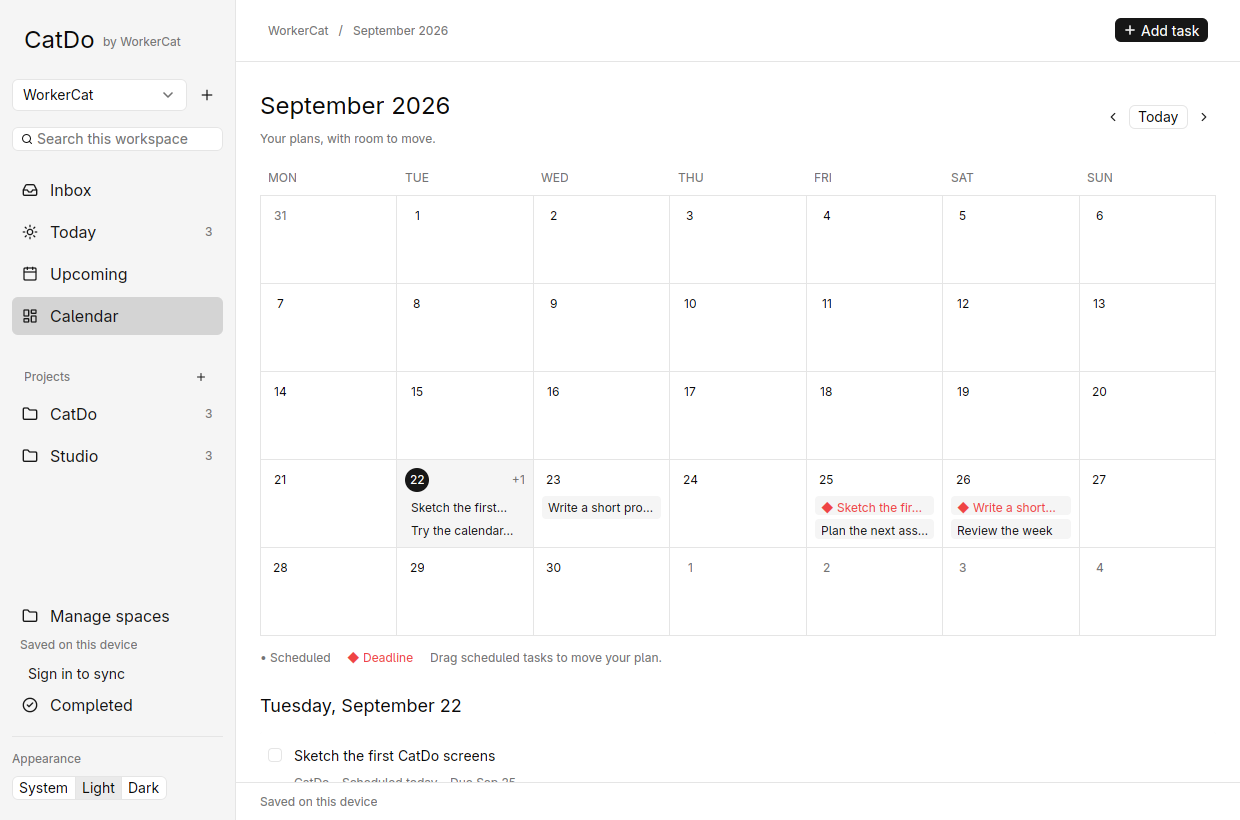
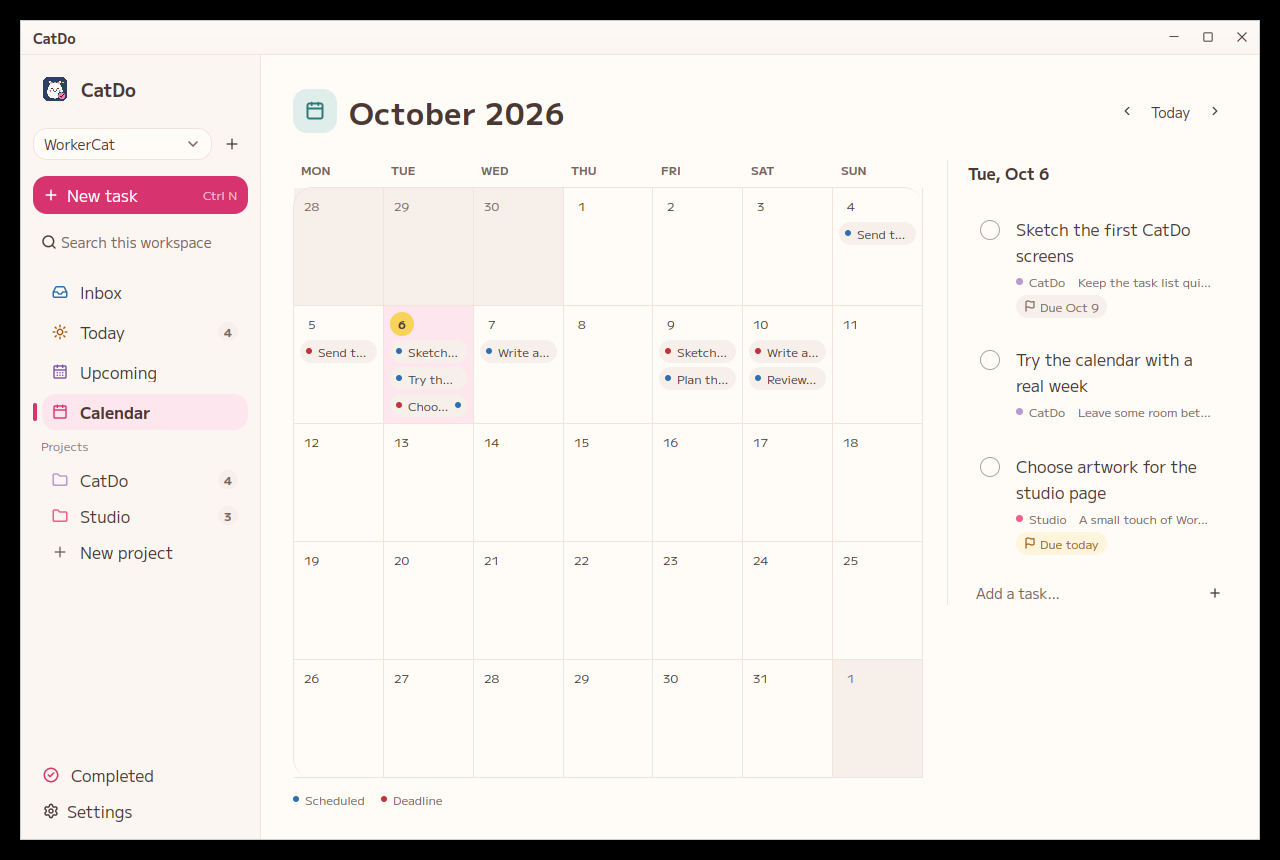
Document the Kirakira design and refresh the screenshots
docs/ui-design.md now describes Kirakira UI as CatDo's design system: where
each client gets it, the theme tokens, CatDo's meaning colours and project
slots, type, shape, the icon and the motion rules. The development and
implementation notes, the README stack table and a new design badge point to
it, and the README screenshots show the redesigned desktop.

diff --git a/docs/ui-design.md b/docs/ui-design.md
@@ -1,104 +1,160 @@
 # CatDo UI
 
-Desktop, web, and Android share a warm neutral foundation. Actions, focus, and
-selection use ink (near-black in light mode, near-white in dark mode) rather
-than a hue. Colour is reserved for meaning: each view has its own hue for its
-icon (amber Today, blue Inbox, violet Upcoming, teal Calendar, green Completed),
-every project gets a stable colour dot from a hash of its id (eight slots shared
-by all clients), deadlines are red when late and amber when due today, scheduled
-dates read blue, repeats read teal, and a finished check fills green. Metadata
-always pairs its colour with an icon (flag, calendar, repeat, subtasks) so it
-still reads without colour. Use platform components with these tokens; keep
-native keyboard, focus, touch, and accessibility behavior. Text on a tint must
-keep 4.5:1 contrast; the light-mode hues above are chosen for that.
+CatDo is designed with [Kirakira UI](https://kk.workercat.com), WorkerCat's
+pop design system. Kirakira was made for CatDo, so its design is authoritative:
+warm paper and cocoa ink, a pink primary, a navy night mode, rounded shapes,
+the M PLUS 1 typeface and quick, springy motion. CatDo adds meaning colours on
+top. Each view has its own hue for its icon tile, every project gets a stable
+colour dot from a hash of its id (eight slots shared by all clients), deadlines
+are red when late and amber when due today, scheduled dates read blue, repeats
+read teal, and a finished check fills pink. Metadata always pairs its colour
+with an icon (flag, calendar, repeat, subtasks) so it still reads without
+colour. Green is never an accent. Keep native keyboard, focus, touch and
+accessibility behaviour. Text must keep 4.5:1 contrast on its surface.
 
-## Colors
+## Where Kirakira comes from
 
-| Role                     | Light     | Dark      |
-| ------------------------ | --------- | --------- |
-| Canvas                   | `#FFFFFF` | `#1B1B1A` |
-| Sidebar / low surface    | `#F6F6F4` | `#171716` |
-| Secondary surface        | `#F6F6F4` | `#232322` |
-| Text                     | `#232323` | `#EDEDEA` |
-| Secondary text           | `#6B6B67` | `#A3A39F` |
-| Border                   | `#E7E7E3` | `#333331` |
-| Primary (ink)            | `#262626` | `#EDEDEA` |
-| On primary               | `#FFFFFF` | `#1B1B1A` |
-| Selection                | `#ECECE8` | `#2C2C2A` |
-| Today accent             | `#946A2A` | `#D9A860` |
-| Inbox / scheduled        | `#3B6FB6` | `#8FB4E8` |
-| Upcoming                 | `#6B5BB5` | `#B3A6E8` |
-| Calendar / repeat        | `#25736A` | `#86CDBF` |
-| Done                     | `#3E7A4F` | `#9ACB9F` |
-| Error / overdue deadline | `#AD3F3C` | `#E7988B` |
+- Web: Kirakira's shadcn registry components, copied unchanged into
+  `apps/web/src/components/ui` (`pop-*.tsx` for the base kit, plus `burst`,
+  `sparkles`, `idle-cat`, `bounce-text` and friends). They build on Base UI.
+  Keep them byte-for-byte as the registry ships them so an update is a copy; put
+  CatDo styling in `apps/web/src/styles`.
+- Desktop: Kirakira for GPUI, vendored in `crates/kirakira` (see its README for
+  the source commit and what was trimmed). `kirakira::theme::apply` installs the
+  theme; controls come from `kirakira::<module>` instead of
+  `gpui_kit::component::<module>`.
+- Android: Kirakira has no Compose kit, so `apps/android` ports its tokens and
+  motion by hand in the `ui` package.
+
+## Colours
+
+Kirakira theme tokens (the `kirakira-theme` registry item):
+
+| Role               | Light     | Dark      |
+| ------------------ | --------- | --------- |
+| Background (paper) | `#FFFCF8` | `#1F2238` |
+| Card / popover     | `#FFFFFF` | `#272B45` |
+| Text (cocoa)       | `#4B3832` | `#F6ECE4` |
+| Muted surface      | `#F7F0EA` | `#2A2E48` |
+| Muted text         | `#7A655D` | `#B3A8B8` |
+| Border / input     | `#F0E4DB` | `#383C5C` |
+| Primary (pink)     | `#D6336F` | `#FF7AA5` |
+| On primary         | `#FFFFFF` | `#1F2238` |
+| Accent (blush)     | `#FDE6EE` | `#3B2F4A` |
+| Destructive        | `#E5484D` | `#FF6B6F` |
+
+Kirakira hues: pink `#EC5F8F`, yellow `#F7D35C`, orange `#F4A35F`, teal
+`#4FB0AA`, sky `#5AA9E6`, lime `#B9CC5A`, lilac `#B79AD1`, navy `#2D3F63`.
+
+CatDo's additions:
+
+| Role                         | Light     | Dark      | Fill behind icons |
+| ---------------------------- | --------- | --------- | ----------------- |
+| Sidebar                      | `#FBF6F1` | `#1B1E33` |                   |
+| Selected row                 | accent    | accent    |                   |
+| Overdue deadline             | `#C2333A` | `#FF8A8D` | destructive       |
+| Today / due today            | `#A35A12` | `#F7D35C` | yellow            |
+| Inbox / scheduled            | `#2F6FB0` | `#8CC4F0` | sky               |
+| Upcoming                     | `#7A52A3` | `#C9B0E3` | lilac             |
+| Calendar / repeat            | `#2B7A75` | `#7FD0C9` | teal              |
+| Completed / finished check   | primary   | primary   | pink              |
+
+Text uses the left two columns; icon tiles and chips use the pastel fill at a
+low strength behind them. A selected row is blush with cocoa text and a pink
+icon, because pink text on blush falls under 4.5:1.
+
+Project slots p0–p7, in order: pink, sky `#5AA9E6`, teal `#4FB0AA`, orange
+`#F4A35F`, lilac `#B79AD1`, yellow (`#E0B531` light, `#F7D35C` dark), coral
+(`#E8775F` light, `#FF9B85` dark) and navy (`#2D3F63` light, `#8FA6D6` dark).
+Pink is `#EC5F8F` light and `#FF7AA5` dark.
 
 Token definitions live in:
 
-- Desktop: `apps/desktop/src/theme.rs`, applied to GPUI Kit's theme so its
-  sidebar, lists, buttons, inputs, and menus inherit the palette.
 - Web: `apps/web/src/styles/foundation.css`, shared by the application and site.
-- Android: `apps/android/app/src/main/java/com/workercat/catdo/ui/Theme.kt`, mapped
-  to Compose Material 3 color, typography, and shape roles.
+- Desktop: `crates/kirakira/themes/kirakira.json` for the theme, plus
+  `apps/desktop/src/theme.rs` for CatDo's additions.
+- Android: `apps/android/app/src/main/java/com/workercat/catdo/ui/Theme.kt`,
+  mapped to Compose Material 3 roles.
+
+## Type and shape
+
+M PLUS 1 everywhere: the variable font on the web, and static Latin weights
+(400, 500, 700, 800) on desktop and Android, whose renderers can't pick weights
+from a variable font. Headings are extra bold (800); task titles are 600;
+metadata is 500–700 at 11–13px. Main headings are 28–32px.
+
+Kirakira's radius is 1rem. Controls are pills or near-pills, task rows and
+cards round to 18–28px, and dialogs to 28px. Section rules are 2px dotted lines
+rather than solid borders. Icon tiles are rounded squares tilted a few degrees.
+Decorative Kirakira shapes (dots, circles, pills, sparkles) belong to the public
+site's hero and empty states, not to working lists.
 
 ## Layout and hierarchy
 
-Use 28–32px main headings, 14–16px task titles, and 12–13px supporting metadata.
-Keep ordinary controls near an 8px corner radius and grouped panels near 12px.
-Use spacing and subtle boundaries to separate sections. Reserve stronger color
-for actions, selected destinations, and deadlines that need attention.
-
 Desktop and wide web layouts use a 240px sidebar with workspace selection,
-search, task views, projects, and settings. Phone navigation adapts to a drawer.
-Put the primary Add task action in the desktop sidebar and quick entry at the end
-of the task list. Use one main view title and count. Task titles lead each row;
-project names and note previews stay close beneath them. Keep deadlines separate
-from scheduled dates. Divide overdue and current tasks with group rules rather
-than adding borders to every row. Hide redundant scheduled-today metadata in
-Today. Empty states explain the next action without adding visual noise.
+search, task views, projects and settings. Phone navigation is a sheet from the
+left. Put the primary Add task action in the sidebar (a pink pill) and quick
+entry at the end of the task list (a dashed pill that turns solid pink when
+focused). Use one main view title and count. Task titles lead each row; project
+names and note previews stay close beneath them. Keep deadlines separate from
+scheduled dates. Divide overdue and current tasks with group rules rather than
+borders on every row. Hide redundant scheduled-today metadata in Today, which
+shows the date on a small Kirakira tape badge. Empty states pair the idle cat
+with a short line about the next action.
 
 Desktop and wide web task editors use a centered dialog with a writing area and
 a compact properties rail. Keep the save footer visible. Phone editors stack
-these areas and retain generous touch targets. Preserve labels that distinguish
-workspace, project, scheduled date, deadline, repeat, and reminder.
+these areas and keep generous touch targets. Keep the labels that distinguish
+workspace, project, scheduled date, deadline, repeat and reminder.
 
-Wide calendars pair a month grid with a selected-day agenda. Limit crowded day
-previews and expose all tasks in the agenda. On phones, show task counts in the
-month grid and readable task names below it. Settings use compact rows and
-section rules without nested cards.
+Wide calendars pair a month grid with a selected-day agenda card. Limit crowded
+day previews and show every task in the agenda. On phones, show task counts in
+the month grid and readable task names below it. Settings sections are single
+cards with compact rows inside; don't nest cards.
 
-Use the existing CatDo artwork. No decorative gradients or glass. Dialogs may
-carry a soft shadow; rows and panels stay flat.
+## Icon
+
+The app icon is a cream cat on a navy tile with a pink completion badge, drawn
+to Kirakira's character rules. The source is `assets/catdo-icon.svg`; see
+`assets/README.md`.
 
 ## Motion
 
-Motion is quick and purposeful. Views and rows settle in with a short fade and
-lift (about 250ms, staggered a little per row); checks fill and spring when a
-task completes, and the row leaves before the list reflows; dialogs rise over a
-fading scrim; hover and press states transition in roughly 150ms. Keep every
-entrance under 400ms, and honour the platform's reduced-motion setting by
-keeping only the fades. On the web, keyboard-driven sessions stay immediate.
+Kirakira's motion, kept quick. Buttons sink to 0.95 while pressed and pop
+0.95 → 1.05 → 0.98 → 1 on release. A task's check squashes, rebounds
+0.85 → 1.08 → 0.97 → 1 and draws its tick, a small pink and yellow burst fires
+behind it, and the row slides away before the list reflows. View icon tiles pop
+in on Kirakira's spring; rows settle in with a short staggered rise. Dialogs,
+sheets and menus use the Kirakira base kit's pop entrances and exits. UI
+feedback takes 0.15–0.4s and entrances stay under about 0.5s. Honour the
+platform's reduced-motion setting: state changes still show, without movement.
+On the web, keyboard-driven sessions stay immediate.
 
 ## Reviewing a UI change
 
-Check the actual rendered application in light and dark modes. Include a populated
-list, a long title, an empty state, the task editor, settings, and the calendar.
-For web, review both wide and phone viewports; for Android, use an emulator or
-device. Check keyboard focus and touch targets in addition to screenshots. Build
-and run each surface's existing checks after changing its UI.
+Check the actual rendered application in light and dark modes. Include a
+populated list, a long title, an empty state, the task editor, settings and the
+calendar. For web, review both wide and phone viewports; for Android, use an
+emulator or device. Check keyboard focus and touch targets as well as
+screenshots. Build and run each surface's existing checks after changing its
+UI.
 
 ## Visual references
 
-Reviewed official product examples as layout references, without copying assets:
+Kirakira UI's docs and style guide at [kk.workercat.com](https://kk.workercat.com)
+are the design reference. Product layout references, reviewed without copying
+assets:
 
 - [Things — Today and task details](https://culturedcode.com/things/features/):
   task names have priority, with quieter project context below.
 - [Todoist — task view](https://www.todoist.com/inspiration/todoist-new-task-view):
   explicit, compact attribute labels and usable narrow layouts.
 - [TickTick — list and calendar views](https://www.ticktick.com/features):
-  navigation, tasks, and details have distinct regions; calendars pair with agendas.
+  navigation, tasks and details have distinct regions; calendars pair with
+  agendas.
 
-Keep existing labels stable. Avoid adding generic section titles that merely
-repeat the page's purpose, or helper copy that only restates the adjacent control.
+Keep existing labels stable. Avoid generic section titles that merely repeat
+the page's purpose, and helper copy that only restates the adjacent control.
 Counts can sit beside the existing view title instead of introducing a second
 heading. Keep field labels that disambiguate values (especially scheduled dates
 versus deadlines).

diff --git a/docs/development.md b/docs/development.md
@@ -18,7 +18,7 @@ cargo run -p catdo-desktop -- --data-dir /tmp/my-catdo
 
 A database becomes bound to its first signed-in account to prevent accidental uploads to someone else's account. Signing out keeps local tasks. Sync runs about every ten seconds and pauses while task details are open.
 
-The sidebar’s **Appearance** toggle follows the OS by default, including changes while CatDo is running. Select **Light** or **Dark** to override it; **System** resumes automatic updates. This device preference is saved immediately and restored at startup. All desktop screens and controls use GPUI Kit’s shared theme colors.
+The sidebar’s **Appearance** toggle follows the OS by default, including changes while CatDo is running. Select **Light** or **Dark** to override it; **System** resumes automatic updates. This device preference is saved immediately and restored at startup. All desktop screens and controls use the Kirakira UI theme installed into GPUI Kit's shared theme colors; see [UI design](ui-design.md).
 
 The app supports Wayland and X11; visual checks have used Fedora through XWayland. If the Wayland graphics path has trouble:
 
@@ -26,7 +26,7 @@ The app supports Wayland and X11; visual checks have used Fedora through XWaylan
 env -u WAYLAND_DISPLAY cargo run -p catdo-desktop
 ```
 
-GPUI Kit 0.6.6 supplies the matched framework, components, assets, and test tools through one dependency. On Linux, the Cargo configuration uses the font backend’s supported runtime Fontconfig loading; the regular Fedora `fontconfig` package is required, but its development headers are not.
+GPUI Kit 0.6.6 supplies the matched framework, components, assets, and test tools through one dependency. Kirakira UI for GPUI is vendored in `crates/kirakira` and builds on it. The desktop embeds static M PLUS 1 weights from `assets/fonts`. On Linux, the Cargo configuration uses the font backend’s supported runtime Fontconfig loading; the regular Fedora `fontconfig` package is required, but its development headers are not.
 
 Build an optimized binary with `cargo build --locked --release -p catdo-desktop`, then run `target/release/catdo`. `bash scripts/install-desktop.sh` builds and installs to the user's application launcher without root access or changing task data.
 
@@ -130,8 +130,9 @@ It checks native task upload, offline edit and database reopen, retry idempotenc
 ## Structure and current limits
 
 - `crates/catdo-core`: Rust domain rules, recurrence, SQLite storage, sync, and tests.
+- `crates/kirakira`: Kirakira UI for GPUI (MIT), vendored and trimmed to what the desktop uses.
 - `apps/desktop`: GPUI screens, browser authorization, keyring credentials, reminders.
-- `apps/web`: TanStack Start public site, shadcn task app, API, IndexedDB storage, and offline shell.
+- `apps/web`: TanStack Start public site, Kirakira UI task app, API, IndexedDB storage, and offline shell.
 - `packages/domain`: TypeScript domain rules and sync contract.
 - `apps/web/src/server`: authenticated HTTP API and per-account Durable Object storage.
 
@@ -196,4 +197,4 @@ Public pages render on the server. The app authenticates on the client so the ca
 
 `pnpm test:e2e` runs Playwright against the production preview, with disposable local accounts and offline browser data. Install its browser once with `pnpm exec playwright install chromium`; on Linux CI use `--with-deps`. An installed Chrome can be selected with `CHROME_PATH=/path/to/chrome`. Tests do not require production credentials.
 
-Public page content and stable latest-release links live in `apps/web/src/site/content.ts`. shadcn components are source-owned in `src/components/ui` and configured in `components.json`; theme tokens and reduced-motion styles are shared by the site and app.
+Public page content and stable latest-release links live in `apps/web/src/site/content.ts`. Kirakira UI components from its shadcn registry are source-owned in `src/components/ui` and configured in `components.json`; keep them as the registry ships them and style CatDo in `src/styles`; theme tokens and reduced-motion styles are shared by the site and app.

diff --git a/README.md b/README.md
@@ -29,6 +29,12 @@
       <img alt="Desktop: GPUI Kit" src="https://shieldcn.dev/badge/Desktop-GPUI_Kit-grey.svg?variant=outline&amp;size=sm&amp;logo=rust&amp;mode=light">
     </picture>
   </a>
+  <a href="https://kk.workercat.com">
+    <picture>
+      <source media="(prefers-color-scheme: dark)" srcset="https://shieldcn.dev/badge/Design-Kirakira_UI-pink.svg?variant=outline&amp;size=sm&amp;logo=false&amp;mode=dark">
+      <img alt="Design: Kirakira UI" src="https://shieldcn.dev/badge/Design-Kirakira_UI-pink.svg?variant=outline&amp;size=sm&amp;logo=false&amp;mode=light">
+    </picture>
+  </a>
   <a href="apps/web/src/server">
     <picture>
       <source media="(prefers-color-scheme: dark)" srcset="https://shieldcn.dev/badge/Sync-Cloudflare-orange.svg?variant=outline&amp;size=sm&amp;logo=cloudflare&amp;mode=dark">
@@ -46,7 +52,7 @@
 <picture>
   <source media="(prefers-color-scheme: dark)" srcset="docs/screenshots/today.png">
   <source media="(prefers-color-scheme: light)" srcset="docs/screenshots/today-light.png">
-  <img src="docs/screenshots/today-light.png" alt="CatDo desktop: a quiet Today list with separate workspaces, projects, and an appearance toggle">
+  <img src="docs/screenshots/today-light.png" alt="CatDo desktop: a Today list with overdue and current tasks, workspaces, and colour-coded projects">
 </picture>
 
 ## Somewhere to put it all
@@ -65,6 +71,7 @@ Inspired by Todoist, built for individuals, and starting with the machine we use
 | **Things that come around again** | Repeat daily, weekly, monthly, on selected weekdays, or after completion. Finished occurrences stay in history.     |
 | **A little flexibility**          | Work offline, undo task actions, and sync through your WorkerCat account when connected.                            |
 | **Your own setup**                | A native Rust desktop built with GPUI Kit. Follow the OS theme or choose Light or Dark, with your preference saved. |
+| **A little sparkle**              | Designed with [Kirakira UI](https://kk.workercat.com): warm paper, a navy night, and checks that pop when you finish. |
 
 ## See the week ahead
 
@@ -162,9 +169,9 @@ Text fields keep their own undo history.
 
 | Part                         | Stack                                       | Source                                   |
 | ---------------------------- | ------------------------------------------- | ---------------------------------------- |
-| Desktop                      | Rust + GPUI Kit                             | [`apps/desktop`](apps/desktop)           |
+| Desktop                      | Rust + GPUI Kit + Kirakira UI               | [`apps/desktop`](apps/desktop)           |
 | Desktop domain and storage   | Rust + SQLite                               | [`crates/catdo-core`](crates/catdo-core) |
-| Website and web app          | TanStack Start + shadcn/ui + IndexedDB                    | [`apps/web`](apps/web)                   |
+| Website and web app          | TanStack Start + Kirakira UI + IndexedDB    | [`apps/web`](apps/web)                   |
 | Android                      | Kotlin + Jetpack Compose + local atomic storage         | [`apps/android`](apps/android)           |
 | Web domain and sync contract | TypeScript                                  | [`packages/domain`](packages/domain)     |
 | API and account storage      | Cloudflare Workers + SQLite Durable Objects | [`apps/web/src/server`](apps/web/src/server)             |

diff --git a/docs/implementation.md b/docs/implementation.md
@@ -8,7 +8,7 @@ The desktop has one UI dependency, `gpui-kit = "=0.6.6"`, which supplies the mat
 
 ## Appearance
 
-The desktop uses GPUI Kit's shared color tokens for custom task/calendar surfaces and its standard components for inputs, textareas, date pickers, selectors, checkboxes, buttons, navigation buttons, and the appearance toggle. There is no separate hard-coded light/dark palette or per-switch color override.
+The desktop installs the Kirakira UI theme into GPUI Kit's shared color tokens, which custom task and calendar surfaces use. Inputs, textareas, selectors, checkboxes, buttons, navigation buttons, and the appearance toggle come from Kirakira's base kit in `crates/kirakira`; date pickers and the window shell stay GPUI Kit's and follow the theme. CatDo's meaning colours live in `apps/desktop/src/theme.rs`.
 
 Appearance is a local SQLite preference, separate from synced task data. **System** is the default. Startup resolves the current window appearance; an active window-appearance observer then follows the OS, including Linux XDG portal updates. **Light** and **Dark** overrides ignore later OS changes. Choosing **System** immediately resolves the current OS appearance again. The three-way Kit button group saves its choice before applying it and reports storage failures.
 
